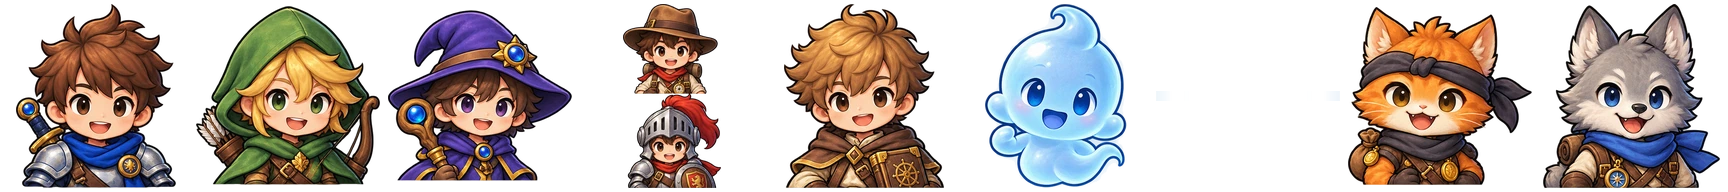
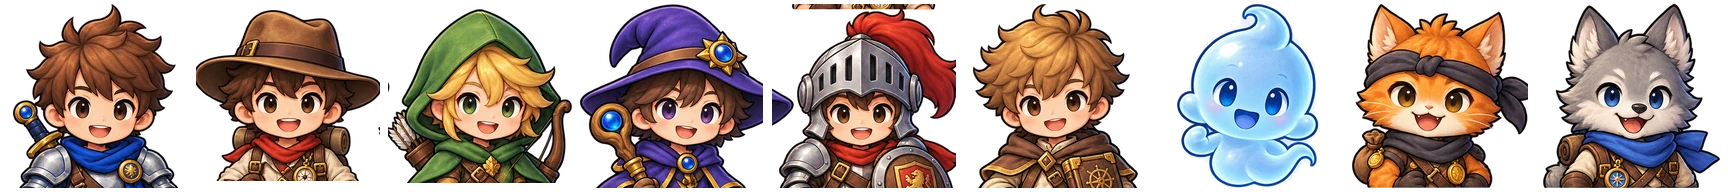
Add files via upload

diff --git a/index.html b/index.html
@@ -323,8 +323,55 @@ body.por-ok #selChar .tile[data-v="wolf"] i, body.por-ok #selP1 .tile[data-v="wo
 .rkRow small{grid-column:2 / 4;color:#8d82b8;font-size:11px}
 .back{width:auto !important;min-width:40px;height:36px !important;padding:0 14px !important;
   border-radius:99px !important;white-space:nowrap;left:10px !important;font-size:14px}
-/* 그래픽 품질 4칸은 2x2 로 */
-#selQual .tile{width:calc(50% - 8px) !important;max-width:150px}
+
+/* ── 고른 카드: 그림 크기가 풀리지 않게 ── */
+.tile.card.sel{background-size:100% 100% !important;background-position:center !important;
+  background-repeat:no-repeat !important;background-color:#211a44 !important;border-color:transparent !important}
+/* ── 타이틀 명판: 간격 + 아이콘을 글자 옆에 ── */
+body.ui-skin .menu{gap:14px !important}
+body.ui-skin .menu .mitem{flex-direction:row !important;flex-wrap:wrap;align-content:center}
+body.ui-skin .menu .mitem small{flex-basis:100%;text-align:center}
+/* ── 3단계: 청록·보라·분홍 광택 버튼 + 예시 칩 ── */
+.tile.gbtn.g-teal{background:linear-gradient(180deg,#7fe0d6,#2fb3a6 55%,#218a80)}
+.tile.gbtn.g-purple{background:linear-gradient(180deg,#b9a3ff,#7a5ae0 55%,#5a3fb5)}
+.tile.gbtn.g-pink{background:linear-gradient(180deg,#ffa8cf,#e8639c 55%,#c0457d)}
+.tile.gbtn em.ex{font-size:12.5px;font-weight:900;letter-spacing:0;color:#fff;
+  padding:6px 10px;border-radius:11px;background:rgba(21,12,40,.38);text-shadow:none}
+/* ── 6단계: 고른 캐릭터가 달린다 ── */
+.readyHero{display:flex;flex-direction:column;align-items:center;margin:-2px 0 8px}
+.rhImg{width:92px;height:110px;background-repeat:no-repeat;background-size:200% 100%;background-position:0 0;
+  font-size:56px;line-height:110px;text-align:center;filter:drop-shadow(0 6px 6px rgba(0,0,0,.45))}
+.rhImg.run{animation:rhRun .5s steps(1) infinite, rhBob .25s ease-in-out infinite alternate}
+@keyframes rhRun{0%{background-position:0 0}50%{background-position:100% 0}}
+@keyframes rhBob{from{transform:translateY(0)}to{transform:translateY(-5px)}}
+.rhName{margin-top:2px;font-size:14px;font-weight:900;color:#ffd37a;letter-spacing:.04em}
+/* ── 6단계: 켜고 끄기는 스위치 줄 ── */
+.toggleCol{flex-direction:column !important;align-items:stretch !important;gap:8px !important;width:100%}
+.toggleCol .tile{width:auto !important;height:48px;display:flex !important;flex-direction:row !important;
+  justify-content:flex-start !important;align-items:center;gap:10px;padding:0 70px 0 16px !important;position:relative;
+  border-image:none !important;border:2px solid rgba(255,255,255,.08) !important;border-radius:14px !important;
+  background:rgba(20,14,44,.55) !important;filter:none !important;box-shadow:none !important;clip-path:none !important;transform:none !important}
+.toggleCol .tile i{font-size:20px;transform:none !important;margin:0}
+.toggleCol .tile b{font-size:15px;color:#efe9ff !important}
+.toggleCol .tile:after{content:"";position:absolute;right:14px;top:50%;width:46px;height:26px;margin-top:-13px;
+  border-radius:13px;background:#3a3160;box-shadow:inset 0 0 0 2px rgba(0,0,0,.3);transition:background .15s}
+.toggleCol .tile:before{content:"";position:absolute;right:36px;top:50%;width:20px;height:20px;margin-top:-10px;
+  border-radius:50%;background:#fff;z-index:1;transition:right .15s}
+.toggleCol .tile.sel:after{background:#5aa832}
+.toggleCol .tile.sel:before{right:17px}
+/* ── 6단계: 그래픽 품질은 한 줄 선택 막대 ── */
+#selQual{flex-wrap:nowrap !important;gap:6px !important;width:100%}
+#selQual .tile{flex:1 1 0;width:auto !important;max-width:none !important;height:44px;padding:0 2px !important;
+  border-image:none !important;border:2px solid rgba(255,255,255,.08) !important;border-radius:12px !important;
+  background:rgba(20,14,44,.55) !important;filter:none !important;box-shadow:none !important;clip-path:none !important}
+#selQual .tile i, #selQual .tile small{display:none}
+#selQual .tile b{font-size:13px;color:#b9aede}
+#selQual .tile.sel{background:linear-gradient(180deg,#ffd978,#f0a92a) !important;border-color:#150c28 !important}
+#selQual .tile.sel b{color:#2a1c06 !important}
+/* ── 시작 버튼 — 크게 ── */
+.startBanner{width:min(320px,92%) !important;height:62px;border-radius:20px !important;font-size:24px !important;
+  box-shadow:0 5px 0 #150c28,inset 0 3px 0 rgba(255,255,255,.4) !important;border:3px solid #150c28 !important;
+  clip-path:none !important;margin-top:16px !important}
 #zoneTag{position:fixed;left:50%;top:28%;transform:translate(-50%,0) scale(.9);z-index:6;
   pointer-events:none;opacity:0;text-align:center;transition:opacity .4s,transform .4s}
 #zoneTag.on{opacity:1;transform:translate(-50%,0) scale(1)}
@@ -743,10 +790,10 @@ details{display:none}
       </div>
 
       <div class="tsec" data-step="2">
-        <div class="tileRow big wrap" id="selMode">
-          <div class="tile" data-v="k2e"><i>🇰🇷</i><b>뜻 → 단어</b><small>사과 → APPLE</small></div>
-          <div class="tile" data-v="e2k"><i>🔡</i><b>단어 → 뜻</b><small>APPLE → 사과</small></div>
-          <div class="tile sel" data-v="mix"><i>🎲</i><b>섞어서</b><small>랜덤</small></div>
+        <div class="cardCol" id="selMode">
+          <div class="tile gbtn g-teal" data-v="k2e"><b>뜻 → 단어</b><small>한글 뜻을 보고 영어 문으로</small><em class="ex">사과 → APPLE</em></div>
+          <div class="tile gbtn g-purple" data-v="e2k"><b>단어 → 뜻</b><small>영어를 보고 뜻 문으로</small><em class="ex">APPLE → 사과</em></div>
+          <div class="tile gbtn g-pink sel" data-v="mix"><b>섞어서</b><small>두 가지를 번갈아</small><em class="ex">랜덤</em></div>
         </div>
       </div>
 
@@ -776,8 +823,9 @@ details{display:none}
       </div>
 
       <div class="tsec" data-step="5">
+        <div class="readyHero" id="readyHero"><div class="rhImg" id="rhImg"></div><div class="rhName" id="rhName"></div></div>
         <div class="summary" id="summary"></div>
-        <div class="tileRow">
+        <div class="tileRow toggleCol">
           <div class="tile sel" id="tglVoice"><i>🔊</i><b>발음 듣기</b></div>
           <div class="tile sel" id="tglPic"><i>🖼</i><b>그림 힌트</b></div>
           <div class="tile sel" id="tglBgm"><i>🎵</i><b>배경음</b></div>
@@ -789,7 +837,7 @@ details{display:none}
           <div class="tile" data-v="low"><i>🪶</i><b>가볍게</b><small>느린 기기</small></div>
           <div class="tile" data-v="nobloom"><i>🌑</i><b>차분하게</b><small>빛번짐 끔</small></div>
         </div>
-        <button class="startBanner" id="btnStart">START</button>
+        <button class="startBanner" id="btnStart">▶ START</button>
       </div>
     </div>
   </div>
@@ -3472,8 +3520,14 @@ function makeMineQuestion(n){
   };
 }
 
+function newQuestion(){ return (G.rule==="mine") ? makeMineQuestion(G.lanes) : makeQuestion(); }
 function spawnSet(){
-  const q = (G.rule==="mine") ? makeMineQuestion(G.lanes) : makeQuestion();
+  // 다음 문제를 한 문제 미리 만들어 두고, 그 함정은 지금 문 뒤편에 깔아 둔다
+  //  → 모든 함정이 멀리서 다가온다 (문을 지나자마자 코앞에 생기지 않는다)
+  let q, pre=false;
+  if(G.nextQ && G.nextQ.options && G.nextQ.options.length===G.lanes){ q=G.nextQ; pre=(G.preHazQ===q); }
+  else q = newQuestion();
+  G.nextQ=null; G.preHazQ=null;
   const n = q.options.length;
   const group = new THREE.Group();
   group.position.z = P.z - G.spawnDist;      // 플레이어 기준으로 생성 → 접근시간 일정
@@ -3523,8 +3577,14 @@ function spawnSet(){
     s.cloudDir = Math.random()<.5 ? -1 : 1;
   }
 
-  Hazards.spawnFor(group.position.z, q.answer);   // 정답 레인은 항상 비워둔다
+  if(!pre) Hazards.spawnFor(group.position.z, q.answer, s.speed);   // 정답 레인은 항상 비워둔다
   G.sets.push(s);
+  try{
+    G.nextQ = newQuestion();
+    Hazards.spawnFor(group.position.z - G.spawnDist, G.nextQ.answer, s.speed);   // 다음 문제 함정 — 이 문 뒤편
+    G.preHazQ = G.nextQ;
+  }catch(e){ G.nextQ=null; G.preHazQ=null; }
+  if(typeof Rocks!=="undefined" && Rocks.dodgeAnswer) try{ Rocks.dodgeAnswer(s); }catch(e){}
   G.groundSpeed = s.speed;
   showQuestion(q, s);
 }
@@ -3697,6 +3757,7 @@ function judge(s){
       if(G.lives<=0){ updateHUD(); gameOver(); return; }
     } else {
       G.right++; G.combo++; G.bestCombo=Math.max(G.bestCombo,G.combo);
+      G.passSafe = 1.2;
       Rank.record(s.q.word && s.q.word.en, true);
       SFX.correct();
       passRing(laneX(G.lane,G.lanes), s.group.position.z, COL.mint);
@@ -3735,6 +3796,7 @@ function judge(s){
 
   if(ok){
     G.right++; G.combo++; G.solved++;
+    G.passSafe = 1.2;                              // 문을 막 통과했다 — 잠깐 함정에 안 걸린다
     Rank.record(s.q.word && s.q.word.en, true);
     onRuleRight();
     passRing(laneX(G.lane,G.lanes), s.group.position.z, COL.mint);
@@ -4363,7 +4425,7 @@ function makeBlock(){
 const Hazards = {
   list:[],
   /* 게이트 세트가 생성될 때 함께 배치 */
-  spawnFor(gateZ, answerLane){
+  spawnFor(gateZ, answerLane, setSpeed){
     this._ans = answerLane;                         // 도롱뇽이 정답 길로 들어가지 않게
     if(G.rule==="endless" || G.rule==="mine") return;   // 무한 질주·철자 지뢰 — 단어만 나온다
     let nHoles = ramped("holes"), nBlocks = ramped("blocks");
@@ -4377,6 +4439,23 @@ const Hazards = {
     else if(G.stage < HAZARD_FROM_STAGE) return;
     const used = [answerLane];              // ★ 정답 레인 제외
     const zs = [], zones = [];
+    /* ★ 문을 지나자마자 함정에 부딪히지 않게
+       - 앞 문을 지나고 1.1초 동안은 어떤 함정도 두지 않는다
+       - 빠져나온 줄(앞 문제의 정답 줄)은 2.2초 동안 비워 둔다 */
+    // 이 문제의 실제 속도와 지금 바닥 속도 중 빠른 쪽 기준 (박자·밀림 여유 12%)
+    const spd = Math.max(setSpeed||0, G.groundSpeed||0, G.spawnDist/Math.max(0.6, approachTime(G.stage))) * 1.25;
+    let prevZ = (typeof P!=="undefined") ? P.z : 0, exitLane = G.lane;
+    G.sets.forEach(st=>{
+      const z=st.group.position.z;
+      if(z > gateZ+1 && z < prevZ){ prevZ=z; exitLane=st.q.answer; }
+    });
+    // 앞 문을 지나 1.1초 + 생겨나는 순간 플레이어로부터 최소 1.5초 앞 (코앞에 갑자기 생기지 않게)
+    const zMax = Math.min(prevZ - spd*1.1, ((typeof P!=="undefined")?P.z:0) - spd*1.5), exitUntil = prevZ - spd*2.2;
+    const laneFor = z=>{
+      const c=[]; for(let j=0;j<G.lanes;j++)
+        if(used.indexOf(j)<0 && !(j===exitLane && z>exitUntil)) c.push(j);
+      return c.length ? rnd(c) : -1;
+    };
     const freeLane = ()=>{
       const c=[]; for(let j=0;j<G.lanes;j++) if(used.indexOf(j)<0) c.push(j);
       return c.length ? rnd(c) : -1;
@@ -4385,8 +4464,12 @@ const Hazards = {
       // 난이도가 높을수록 함정을 촘촘히, 놓는 구간도 넓게
       const sep = G.spawnDist*(DIFF[G.diff].hazGap || 0.17);
       const lo = DIFF[G.diff].hazFrom || 0.38, span = DIFF[G.diff].hazSpan || 0.34;
+      // 안전 구간 끝부터 다음 문 바로 앞까지 — 빈 구간을 뺀 나머지를 다 쓴다
+      const far  = gateZ + G.spawnDist*0.20;          // 문 바로 앞도 비워 둔다 (속도 차로 문을 추월하지 않게)
+      const near = Math.min(zMax, gateZ + G.spawnDist*Math.max(lo+span, 0.72));
+      if(near <= far) return null;
       for(let k=0;k<24;k++){
-        const z = gateZ + G.spawnDist*(lo + Math.random()*span);
+        const z = far + Math.random()*(near-far);
         if(zones.some(v=>Math.abs(z-v.z) < v.len/2 + 5)) continue;   // 구역 안에는 두지 않는다
         if(zs.every(v=>Math.abs(v-z)>sep)){ zs.push(z); return z; }
       }
@@ -4415,6 +4498,8 @@ const Hazards = {
       const kind = zoneKinds.splice(Math.floor(Math.random()*zoneKinds.length),1)[0];
       for(let k=zoneKinds.length-1;k>=0;k--) if(zoneKinds[k]===kind) zoneKinds.splice(k,1);
       const z = gateZ + G.spawnDist*(0.14+Math.random()*0.32);
+      const zlen = kind==="crumble" ? CRUMBLE.LEN : (kind==="puddle" ? PUDDLE.LEN : ICE.LEN);
+      if(z + zlen/2 > zMax) continue;                   // 앞 문 바로 뒤까지 뻗지 않게
       if(kind==="crumble"){
         const w=CFG.LANE_W*G.lanes;
         const mesh=makeZoneMesh("crumble", w-0.2, CRUMBLE.LEN);
@@ -4442,20 +4527,26 @@ const Hazards = {
     }
     // 화산 — 도롱뇽이 대표 함정이라 따로 더 자주 등장시킨다
     if(zone().prop==="lava" && zoneAllows("block") && !G.gentle && Math.random()<0.55){
-      const l=freeLane(), z=freeZ();
-      if(l>=0 && z!==null){ this.addBlock(l,z); used.push(l); }
+      const z=freeZ(), l=(z!==null && z<=exitUntil) ? laneFor(z) : -1;   // 순찰하므로 더 멀리
+      if(l>=0){ this.addBlock(l,z); used.push(l); }
     }
     // 구멍·장애물은 구역을 피해서 배치한다
     for(let i=0;i<nHoles;i++){
-      const l=freeLane(), z=freeZ(); if(l<0||z===null) break;
+      const z=freeZ(); if(z===null) break;
+      const l=laneFor(z); if(l<0) continue;
       this.addHole(l,z);
-      // 타일이 짧아진 만큼 후반에는 구멍을 연달아 두 칸 판다
-      const d=DIFF[G.diff];
-      const twin = !G.gentle && G.stage >= (d.twinHole||999) && Math.random()<0.45;
-      if(twin) this.addHole(l, z + Ground.len);
+      // 타일이 짧아진 만큼 후반에는 구멍을 연달아 두 칸 판다 (둘째 칸도 규칙을 지킨다)
+      const d=DIFF[G.diff], z2=z+Ground.len;
+      const twin = !G.gentle && G.stage >= (d.twinHole||999) && Math.random()<0.45
+                   && z2<=zMax && !(l===exitLane && z2>exitUntil);
+      if(twin) this.addHole(l, z2);
       used.push(l);
     }
-    for(let i=0;i<nBlocks;i++){ const l=freeLane(), z=freeZ(); if(l<0||z===null) break; this.addBlock(l,z); used.push(l); }
+    for(let i=0;i<nBlocks;i++){
+      const z=freeZ(); if(z===null) break;
+      const l=laneFor(z); if(l<0) continue;
+      this.addBlock(l,z); used.push(l);
+    }
   },
   addHole(lane, z){
     // 그 자리의 바닥 타일을 숨겨서 진짜 구멍을 만든다
@@ -4526,6 +4617,17 @@ const Hazards = {
       if(h.tile){ z = h.tile.logicZ; h.mesh.visible = !h.tile.fall; }
       else { h.z += speed*dt; z = h.z; }
       h.mesh.position.z = z;
+      // 생겨날 때: 비석은 땅에서 솟고, 구멍은 벌어진다 (0.35초)
+      if(h.emerge===undefined && (h.type==="block" || h.type==="hole")){
+        h.emerge=0.35; h.baseY=h.mesh.position.y;
+        if(typeof puff==="function") try{ puff(h.mesh.position.x, .3, z, h.type==="hole"?0x2a2238:0x9a8f7a, 8, 1.6); }catch(e){}
+      }
+      if(h.emerge>0){
+        h.emerge=Math.max(0,h.emerge-dt);
+        const k=1-h.emerge/0.35, e=1-Math.pow(1-k,3);                 // 끝에서 부드럽게 멈춤
+        if(h.type==="block"){ h.mesh.position.y = h.baseY - (1-e)*2.2; }
+        else { const sc=0.05+0.95*e; h.mesh.scale.set(sc,1,sc); }
+      }
       h.mesh.position.x = laneX(h.lane, G.lanes);
 
       if(h.mesh.userData.patrol){                    // 도롱뇽 — 좌우로 기어다닌다
@@ -4553,7 +4655,7 @@ const Hazards = {
           else P.onCrumble = true;
         }
       }
-      else if(!h.done && !G.falling && G.running && G.inv<=0 &&
+      else if(!h.done && !G.falling && G.running && G.inv<=0 && !(G.passSafe>0) &&
          Math.abs(z - P.z) < h.len/2 &&
          Math.abs(P.x - (h.mesh.userData.patrol ? h.mesh.position.x : laneX(h.lane,G.lanes))) < CFG.LANE_W*0.38){
         h.done = true;
@@ -4569,7 +4671,7 @@ const Hazards = {
     h.mesh.traverse(o=>{ if(o.geometry) o.geometry.dispose(); if(o.material) o.material.dispose(); });
     this.list.splice(i,1);
   },
-  clear(){ for(let i=this.list.length-1;i>=0;i--) this.remove(i); },
+  clear(){ for(let i=this.list.length-1;i>=0;i--) this.remove(i); if(typeof G!=="undefined"){ G.preHazQ=null; } },
   dropTile(lane,z){ Ground.collapseAt(lane,z); },
   /* 아직 플레이어 앞에 남아 있는 함정이 그 레인에 있는가 */
   laneHasPending(lane){
@@ -4632,6 +4734,23 @@ const Rocks = {
     const v = Math.min(BOULDER.SPEED_MAX, BOULDER.SPEED + G.stage*BOULDER.SPEED_UP);
     return G.gentle ? v*0.6 : v;                    // 유치원은 천천히 굴러온다
   },
+  /* 새 문이 생겼을 때: 그 문과 거의 같은 때 정답 줄로 도착할 바위는 옆 줄로 옮기거나 거둔다 */
+  dodgeAnswer(set){
+    if(!set || !this.list.length) return;
+    const sp=this.speed(), ans=laneOfX(set.gates[set.q.answer].root.position.x, G.lanes);
+    const tGate=(P.z - set.group.position.z)/Math.max(0.1, set.speed||1);
+    this.list.forEach(r=>{
+      if(r.spent || r.lane!==ans) return;
+      const tHit=(r.z - P.z - BOULDER.HIT)/sp;
+      if(Math.abs(tHit - tGate) > 1.3) return;
+      if(r.z - P.z > VIEW.camZ*0.8){                     // 아직 화면 밖 — 다른 줄로
+        const used={}; this.list.forEach(o=>{ if(o!==r) used[o.lane]=1; });
+        const c=[]; for(let j=0;j<G.lanes;j++) if(j!==ans && !used[j]) c.push(j);
+        if(c.length){ r.lane=rnd(c); return; }
+      }
+      r.spent=true;                                      // 이미 보이면 부딪히지 않게
+    });
+  },
   spawn(){
     // 곧 도착할 문의 정답 길과, 이미 다른 돌이 굴러오는 길은 피한다
     const ban = {};
@@ -4641,6 +4760,14 @@ const Rocks = {
       if(left < 2.6) ban[laneOfX(act.gates[act.q.answer].root.position.x, G.lanes)] = 1;
     }
     this.list.forEach(r=>{ if(r.z > P.z) ban[r.lane]=1; });
+    ban[G.lane] = ban[G.lane] || (G.passSafe>0 ? 1 : 0);   // 막 빠져나온 줄
+    // 이 바위가 플레이어를 따라잡는 시각 — 그 앞뒤 1.5초에 도착하는 문의 정답 줄은 피한다
+    const tCatch=(VIEW.camZ + BOULDER.BEHIND - BOULDER.HIT)/Math.max(0.1,this.speed());
+    G.sets.forEach(st=>{
+      if(st.judged) return;
+      const left=(P.z - st.group.position.z)/Math.max(0.1, st.speed||1);
+      if(left < tCatch+1.5) ban[laneOfX(st.gates[st.q.answer].root.position.x, G.lanes)] = 1;
+    });
     const free = [];
     for(let j=0;j<G.lanes;j++) if(!ban[j]) free.push(j);
     if(!free.length) return;
@@ -4713,7 +4840,7 @@ const Rocks = {
         r.beam.material.opacity = .12 + near*.30;
         const d = this.inLane(r) ? near : near*0.22;
         if(d > danger) danger = d;
-        if(gap < BOULDER.HIT && this.inLane(r) && !G.falling && !G.dead && G.inv<=0){ r.spent = true; crushed(); }
+        if(gap < BOULDER.HIT && this.inLane(r) && !G.falling && !G.dead && G.inv<=0 && !(G.passSafe>0)){ r.spent = true; crushed(); }
       } else {
         r.spent = true;                 // 지나감 → 더 이상 판정도 경고도 없음
         r.beam.visible = false;
@@ -4971,7 +5098,7 @@ function updatePlayer(dt){
   const slow = P.onPuddle ? PUDDLE.SLOW : 1;          // 물웅덩이에서는 느려진다
 
   /* 흔들다리 — 같은 칸에 계속 서 있으면 발밑이 무너진다 */
-  if(P.onCrumble && !G.falling && G.inv<=0){
+  if(P.onCrumble && !G.falling && G.inv<=0 && !(G.passSafe>0)){
     if(P.crumbLane !== G.lane){ P.crumbLane = G.lane; P.crumbT = 0; }
     P.crumbT = (P.crumbT||0) + dt;
     if(P.crumbT > CRUMBLE.TIME*0.55){
@@ -5018,6 +5145,7 @@ function updatePlayer(dt){
     if(P.y < CFG.DEATH_Y) onDead();
   } else { P.y=0; P.vy=0; }
 
+  if(G.passSafe>0) G.passSafe = Math.max(0, G.passSafe - dt);
   if(G.inv>0){                        // 무적 — 깜빡이며 함정을 통과한다
     G.inv -= dt;
     player.visible = G.inv>0 ? (Math.floor(G.inv*12)%2===0) : true;
@@ -5774,8 +5902,17 @@ function syncCardScroll(){
   }
 }
 function nextStep(){ SFX.select(); setTimeout(()=>goStep(step+1), 180); }
-const TILE_EMOJI = {normal:"⚡", easy:"🐣", hard:"🔥", extreme:"⚔"};   // 난이도용
+const TILE_EMOJI = {normal:"⚡", easy:"🐣", hard:"🔥", extreme:"⚔",   // 난이도
+                    k2e:"🇰🇷", e2k:"🔡", mix:"🎲"};                      // 문제 방법
+function drawReadyHero(){
+  const box=$("rhImg"), nm=$("rhName"); if(!box) return;
+  const c=(CHARACTERS.filter(x=>x.id===G.char)[0]||CHARACTERS[0]);
+  if(TrapArt.tex["char-"+c.id]){ box.style.backgroundImage="url(char-"+c.id+".webp)"; box.textContent=""; box.className="rhImg run"; }
+  else { box.style.backgroundImage=""; box.textContent=c.emoji; box.className="rhImg"; }
+  if(nm) nm.textContent=c.name;
+}
 function drawSummary(){
+  try{ drawReadyHero(); }catch(e){}
   const pick=(id)=>{ const el=document.querySelector("#"+id+" .tile.sel");
     if(!el) return null;
     const ic=el.querySelector("i");
@@ -5870,6 +6007,7 @@ pickers("selChar",v=>{ G.char=v; setCharacter(v); previewCharacter(); nextStep()
 
 /* 시작 / 종료 */
 function startGame(){
+  G.passSafe = 0; G.nextQ = null; G.preHazQ = null;
   try{ const r0=Rank.of(G.set); G.rankBefore = r0 ? r0.i : null; }catch(e){ G.rankBefore=null; }
   Attract.focus=false; Attract.clear();
   SFX.start(); Voice.warm(); BGM.start();
@@ -6062,7 +6200,7 @@ $("btnResume").addEventListener("click",()=>{
     G.diff = DIFF[st.diff] ? st.diff : "normal";
     G.mode = st.mode || "mix";
     G.set  = WORD_SETS[st.set] ? st.set : "elem";
-    G.char = (CHARACTERS.filter(c=>c.id===st.char)[0] ? st.char : "runner");
+    G.char = (CHARACTERS.filter(c=>c.id===st.char)[0] ? st.char : "hero");
     Voice.on = st.voice!==false;
     G.picture = st.picture!==false;
     startGame();

diff --git a/versus.html b/versus.html
@@ -267,6 +267,11 @@ body.por-ok #selChar .tile[data-v="wolf"] i, body.por-ok #selP1 .tile[data-v="wo
   border-radius:99px !important;white-space:nowrap;left:10px !important;font-size:14px}
 /* 그래픽 품질 4칸은 2x2 로 */
 #selQual .tile{width:calc(50% - 8px) !important;max-width:150px}
+
+/* ── 타이틀 명판: 간격 + 아이콘을 글자 옆에 ── */
+body.ui-skin .menu{gap:14px !important}
+body.ui-skin .menu .mitem{flex-direction:row !important;flex-wrap:wrap;align-content:center}
+body.ui-skin .menu .mitem small{flex-basis:100%;text-align:center}
 #zoneTag{position:fixed;left:50%;top:26%;transform:translate(-50%,0) scale(.9);z-index:6;
   pointer-events:none;opacity:0;text-align:center;transition:opacity .4s,transform .4s}
 #zoneTag.on{opacity:1;transform:translate(-50%,0) scale(1)}

diff --git a/sw.js b/sw.js
@@ -1,6 +1,6 @@
 /* HY ENG 서비스워커 — 게임 파일을 캐시해 두 번째부터는 오프라인에서도 실행됩니다.
    게임을 수정한 뒤에는 아래 VERSION 숫자를 꼭 올리세요. 그래야 새 버전이 반영됩니다. */
-const VERSION = "hyeng-v101";
+const VERSION = "hyeng-v103";
 const CORE = [
   "./",
   "./index.html",
